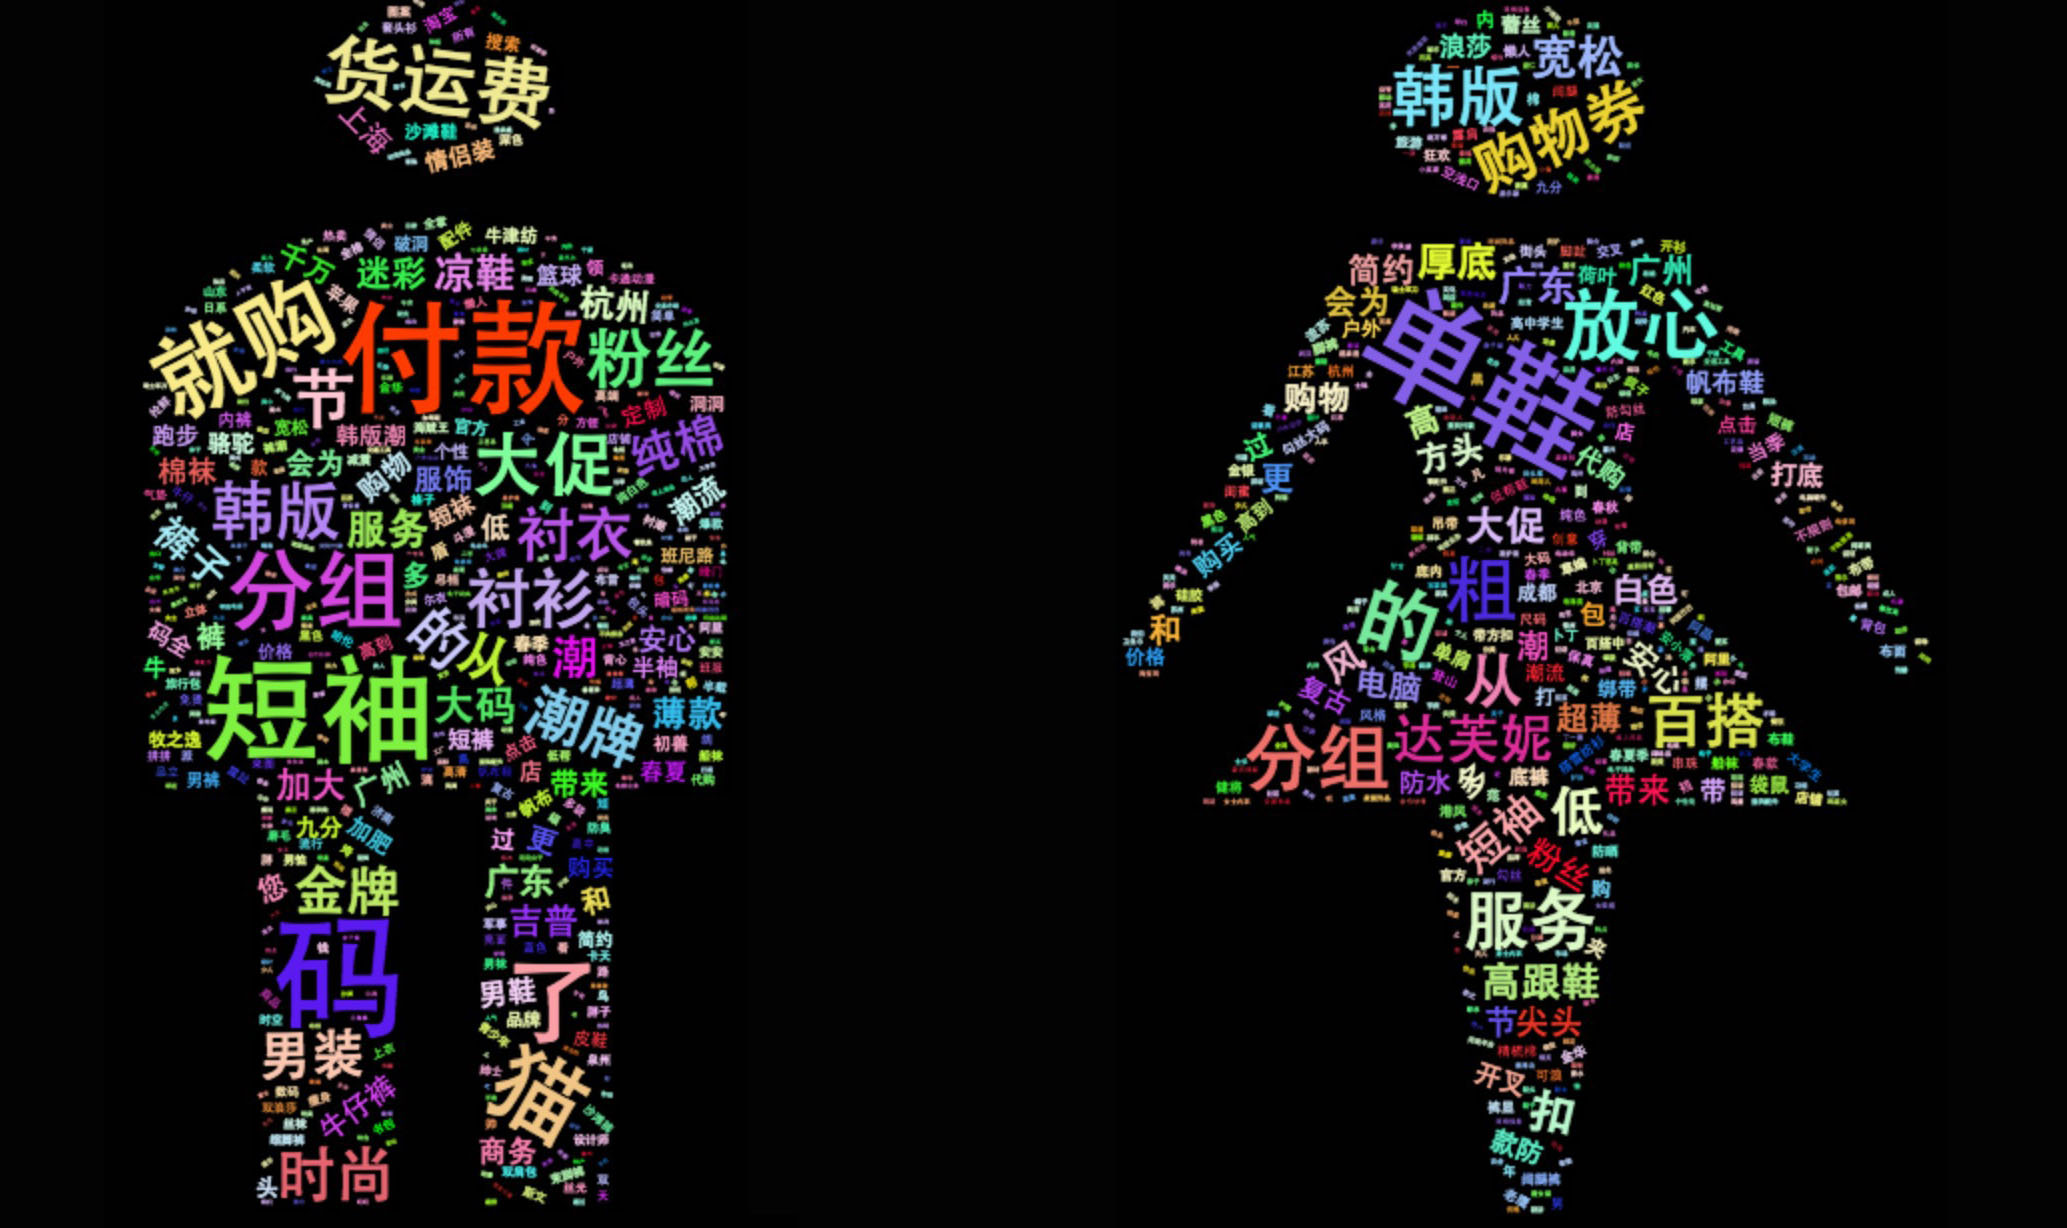
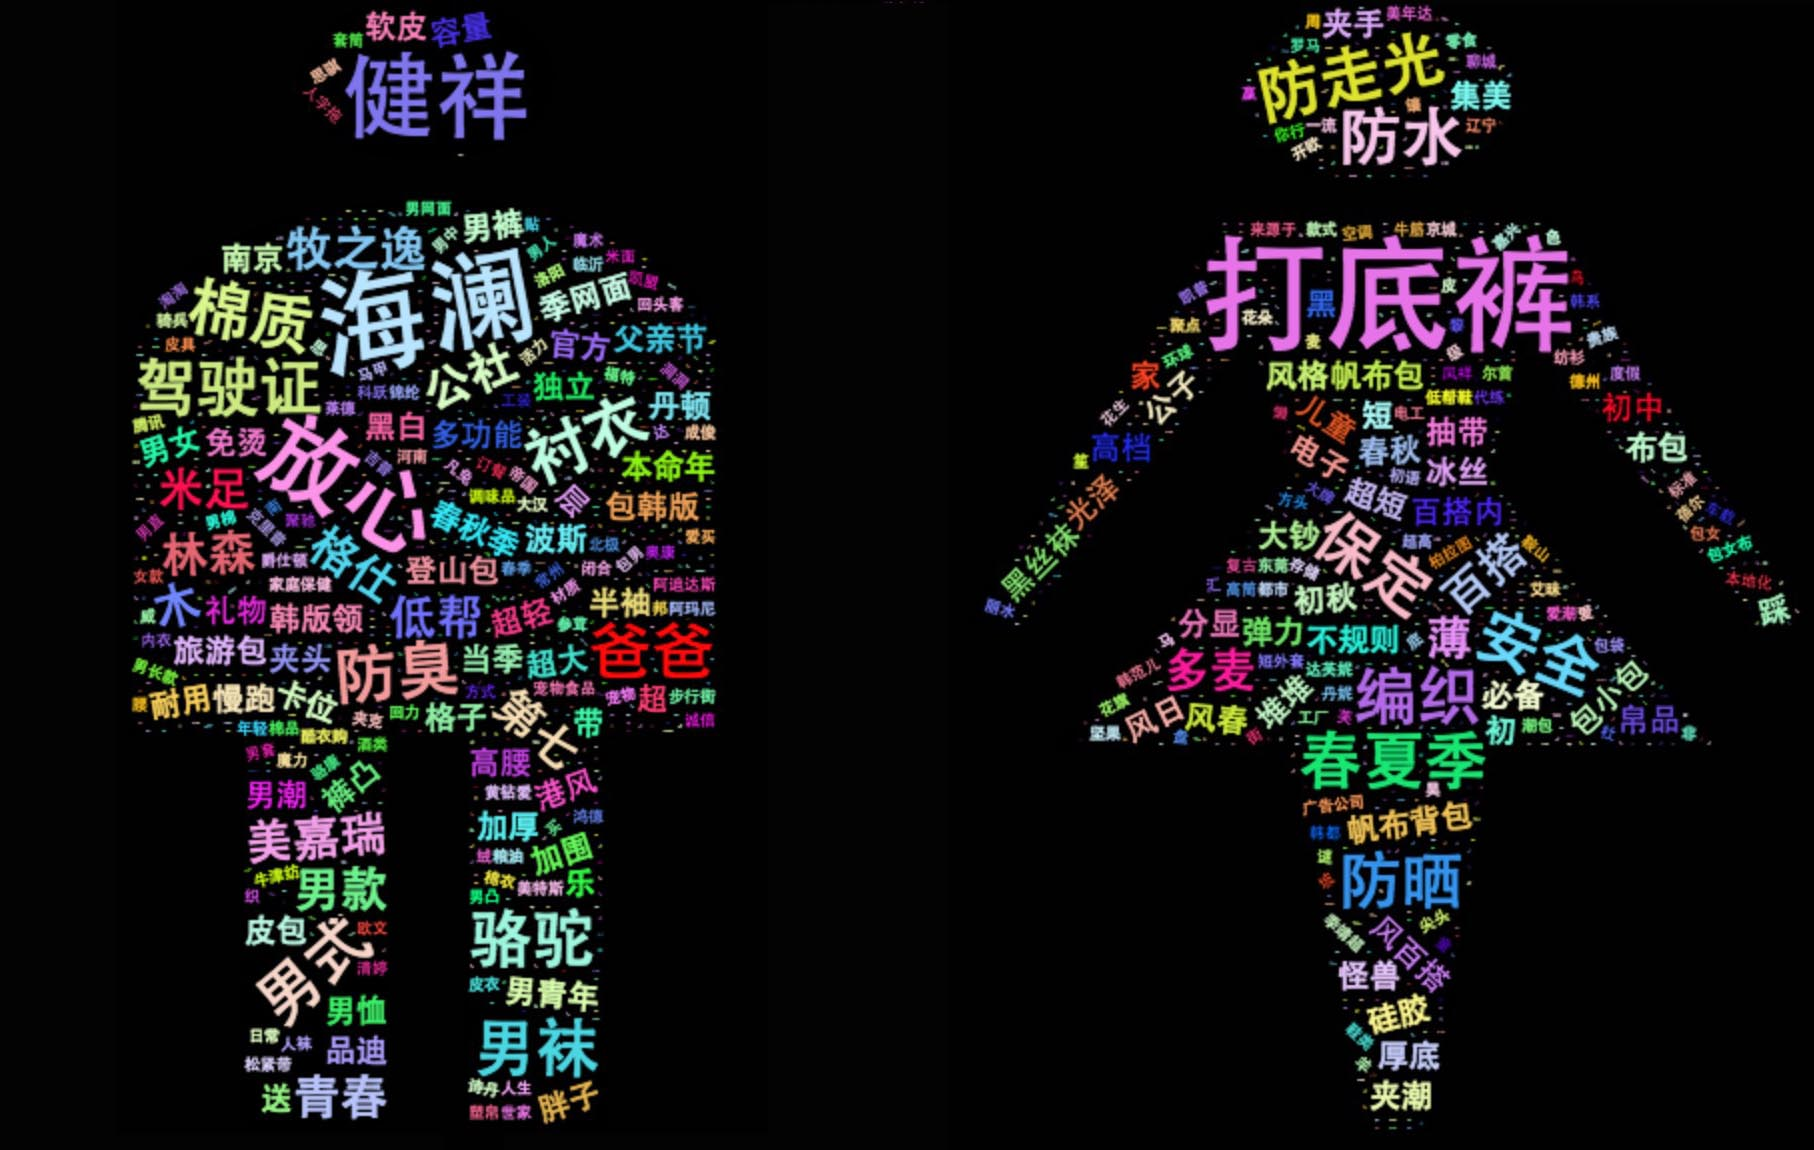
modify

Changed region(s): [[0.0617, 0.0, 0.4013, 1.0], [0.5248, 0.0, 0.9879, 1.0]]

diff --git a/_posts/2016-06-15-wordcloud2.md b/_posts/2016-06-15-wordcloud2.md
@@ -74,6 +74,10 @@ wordcloud2(demoFreqC, figPath='~/Desktop/ma.jpg')
 ```{r eval=FALSE}
 library(showtext)
 library(Cairo)
+
+link = "http://img.dafont.com/dl/?f=wm_people_1";
+download.file(link, "wmpeople1.zip", mode = "wb");
+unzip("wmpeople1.zip");
 font.add("wmpeople1", "wmpeople1.TTF");
 
 plot_shape <- function(filename, char){
@@ -92,32 +96,47 @@ plot_shape('female.png', 'u')
 plot_shape('male.png', 'p')
 ```
 
-接下来在淘宝首页搜索'男'和'女'两个关键词，存贮相应的网页。做分词和词频的统计，对特定词语做特殊处理以表现出性别差异。比如'保险'和'宝贝'出现频率都很高，就把频率都降为0，其他共现词(同时出现在两个网页的词语)，频率都降为原来的一半。
+接下来在淘宝首页搜索'男'和'女'两个关键词。对搜索结果的网页做处理，分词和词频统计。计算TF-IDF指标并用词云展示。绘制词云的数据应当是长尾分布的，即大量低频词和少数高频词。高频词刻画特点，低频词填充剩余位置，达到醒目和美观的效果。因此处理过程中对TF-IDF为0或者缺失的值都填充为1，以便让这些低频词显示出来。
 
 ```{r}
 library(jiebaR)
-cc = worker()
-readFreq <- function (path) {
+readChineseWords <- function (path) {
   rawstring = readLines(path)
   rawstring = paste0(rawstring, collapse = ' ')
   s = gsub('\\w', '', rawstring, perl=TRUE)
   s = gsub('[[:punct:]]', ' ', s)
-  return(table(cc[s]))
+  return(s)
 }
 # 此处male.txt和female.txt文件为在淘宝首页搜索'男'和'女'对应的网页
-male_freq = readFreq('~/Desktop/male.txt')
-female_freq = readFreq('~/Desktop/female.txt')
+male_link = 'https://s.taobao.com/search?q=%E7%94%B7&search_type=item&sourceId=tb.index'
+female_link = 'https://s.taobao.com/search?q=%E5%A5%B3&search_type=item&sourceId=tb.index'
 
-# 对特有词语和共现词做简单的弱化频率处理
-male_freq['保险'] = female_freq['保险'] = 0
-male_freq['宝贝'] = female_freq['宝贝'] = 0
-words = intersect(names(male_freq), names(female_freq))
-male_freq[words] = ceiling(male_freq[words] / 2)
-female_freq[words] = ceiling(female_freq[words] / 2)
+male_str = readChineseWords(male_link)
+female_str = readChineseWords(female_link)
 
-wordcloud2(male_freq, figPath = 'male.png', 
+cc = worker()
+new_user_word(cc,'打底裤','ddk')
+male_words = cc[male_str]
+female_words = cc[female_str]
+
+# 计算tf-idf 
+idf = get_idf(list(male_words, female_words))
+get_tf_idf <- function(words){
+  words_freq = table(words)
+  df = data.frame(name=names(words_freq), freq=as.numeric(words_freq))
+  df = merge(df, idf, all.x = TRUE)
+  wc_df = data.frame(words=df$name, freq=ceiling(df$count * df$freq * 10))
+  # 缺失和0值替换成1 
+  wc_df$freq[wc_df$freq == 0 | is.na(wc_df$freq)] = 1
+  return(wc_df)
+}
+
+# 绘制词云
+male_df = get_tf_idf(male_words)
+female_df = get_tf_idf(female_words)
+wordcloud2(male_df, figPath = 'male.png', 
            backgroundColor = 'black', color = 'random-light')
-wordcloud2(female_freq, figPath = 'female.png', 
+wordcloud2(female_df, figPath = 'female.png', 
            backgroundColor = 'black', color = 'random-light')
 ```
 
